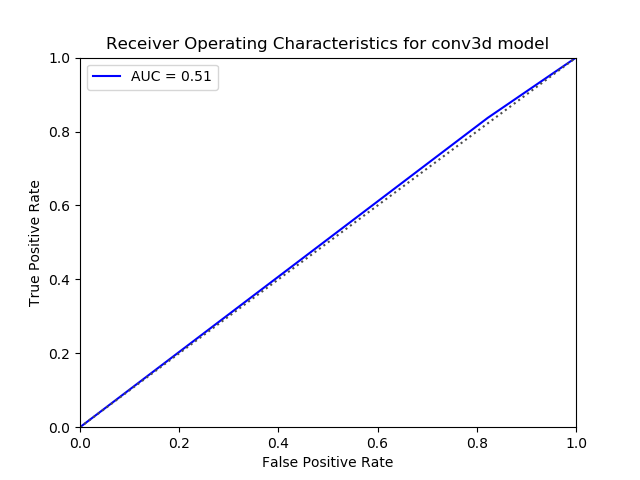
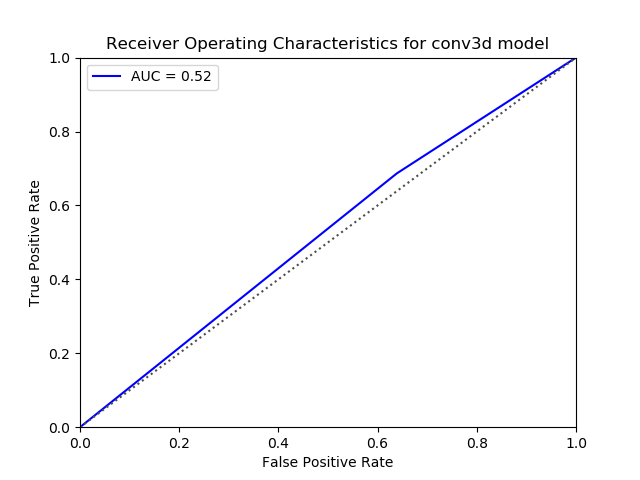
reasonable results groupconv

diff --git a/Jochem/3DGroupConv_adapted/dltk/networks/regression_classification/group_convnet.py b/Jochem/3DGroupConv_adapted/dltk/networks/regression_classification/group_convnet.py
@@ -11,7 +11,7 @@ from dltk.groupy.gconv.tensorflow_gconv.splitgconv3d import gconv3d_unit, group_
 def groupnet_3d(inputs,
               num_classes,
               batch_size,
-              filters=(8, 8, 16, 16),
+              filters=(3, 6, 6, 6),
               mode=tf.estimator.ModeKeys.EVAL,
               use_bias=False,
               activation=tf.nn.relu6,
@@ -63,18 +63,21 @@ def groupnet_3d(inputs,
                    'bias_regularizer': bias_regularizer}
     # print("INPUTS", inputs)
     x = inputs
-    x = tf.layers.max_pooling3d(x,2,strides=1)
+    # x = tf.layers.max_pooling3d(x,2,strides=1)
 
     for i in range(len(filters)):
 
-        x = gconv3d_unit(x, filters[i])
-        if mode == tf.estimator.ModeKeys.TRAIN:
-            x = group_norm(x, batch_size=batch_size, G=24)
+        x = gconv3d_unit(x, filters[i], ksize=3)
+        # if mode == tf.estimator.ModeKeys.TRAIN:
+        #     x = group_norm(x, batch_size=batch_size, G=24)
+
+        x = tf.layers.batch_normalization(x, training=mode == tf.estimator.ModeKeys.TRAIN)
         x = activation(x)
-        if i == 0 or i == 1 or i == 3:
-            x = tf.layers.max_pooling3d(x,2,strides=1)
-        # x = tf.layers.batch_normalization(x, training=mode == tf.estimator.ModeKeys.TRAIN)
-        x = tf.layers.dropout(x,rate=0.5,training=mode == tf.estimator.ModeKeys.TRAIN)
+
+        if i in [1]:
+            x = tf.layers.max_pooling3d(x,2,strides=2)
+        if i in [0, 2]:
+            x = tf.layers.dropout(x,rate=0.5,training=mode == tf.estimator.ModeKeys.TRAIN)
         print('output shape after layer {} : {}'.format(i+1,x.get_shape()))
 
     x = tf.layers.Flatten()(x)
@@ -88,7 +91,7 @@ def groupnet_3d(inputs,
                         kernel_regularizer=conv_params['kernel_regularizer'],
                         bias_regularizer=conv_params['bias_regularizer'],
                         name='hidden_units_0')
-
+    print("output shape after FC 1: {}".format(x.get_shape()))
     x = tf.layers.dense(inputs=x,
                         units=num_classes,
                         activation=None,
@@ -98,6 +101,26 @@ def groupnet_3d(inputs,
                         kernel_regularizer=conv_params['kernel_regularizer'],
                         bias_regularizer=conv_params['bias_regularizer'],
                         name='hidden_units')
+
+    # x = inputs
+    # # x = tf.layers.max_pooling3d(x,2,strides=2)
+
+    # for i in range(len(filters)):
+    #     if i == 0:
+    #         ksize = 5
+    #     else:
+    #         ksize = 3
+    #     # ksize = 3
+    #     x = gconv3d_unit(x, filters[i], ksize)
+    #     # if mode == tf.estimator.ModeKeys.TRAIN:
+    #     #     x = group_norm(x, batch_size=batch_size, G=24)
+    #     x = activation(x)
+    #     if i in [0, 1, 2, 3]:
+    #         x = tf.layers.max_pooling3d(x,2,strides=2)
+    #     x = tf.layers.batch_normalization(x, training=mode == tf.estimator.ModeKeys.TRAIN)
+    #     # if i in [1, 3]:
+    #     #     x = tf.layers.dropout(x,rate=0.5,training=mode == tf.estimator.ModeKeys.TRAIN)
+    #     print('output shape after layer {} : {}'.format(i+1,x.get_shape()))
 
     # Define the outputs
     outputs['logits'] = x
@@ -116,7 +139,7 @@ def groupnet_3d(inputs,
 
 def convnet_3d(inputs,
               num_classes,
-              filters=(32, 32, 64, 64),
+              filters=(16, 32, 32, 64),
               mode=tf.estimator.ModeKeys.EVAL,
               use_bias=False,
               activation=tf.nn.relu6,
@@ -142,24 +165,24 @@ def convnet_3d(inputs,
         if i == 0:
             kernel_size=(5,5,5)
         elif i == 1:
-            kernel_size=(3,5,3)
+            kernel_size=(3,3,3)
         elif i == 2:
             kernel_size=(3,3,3)
         elif i == 3:
             kernel_size=(3,3,3)
 
-        layer = tf.layers.Conv3D(filters=filters[i],kernel_size=kernel_size)
+        layer = tf.layers.Conv3D(filters=filters[i],kernel_size=kernel_size, strides=(2,2,2), padding='same')
         x = layer(x)
         x = tf.layers.batch_normalization(x,training=mode == tf.estimator.ModeKeys.TRAIN)
         x = activation(x)
-        if i == 0 or i = 2:
+        if i == 1:
             x = tf.layers.max_pooling3d(x,2,strides=2)
-        x = tf.layers.dropout(x,rate=0.5,training=mode == tf.estimator.ModeKeys.TRAIN)
+        # x = tf.layers.dropout(x,rate=0.5,training=mode == tf.estimator.ModeKeys.TRAIN)
 
-        # print('output shape after layer {} : {}'.format(i+1,x.get_shape()))
+        print('output shape after layer {} : {}'.format(i+1,x.get_shape()))
 
     x = tf.layers.Flatten()(x)
-    # print("output shape after flattening: {}".format(x.get_shape()))
+    print("output shape after flattening: {}".format(x.get_shape()))
     x = tf.layers.dense(inputs=x,
                         units=512,
                         activation=None,
@@ -169,7 +192,8 @@ def convnet_3d(inputs,
                         kernel_regularizer=conv_params['kernel_regularizer'],
                         bias_regularizer=conv_params['bias_regularizer'],
                         name='hidden_units_0')
-    x = tf.layers.dropout(x,rate=0.5,training=mode == tf.estimator.ModeKeys.TRAIN)
+    # x = tf.layers.dropout(x,rate=0.5,training=mode == tf.estimator.ModeKeys.TRAIN)
+    print("output shape after FC 1: {}".format(x.get_shape()))
     x = tf.layers.dense(inputs=x,
                         units=num_classes,
                         activation=None,
@@ -179,7 +203,7 @@ def convnet_3d(inputs,
                         kernel_regularizer=conv_params['kernel_regularizer'],
                         bias_regularizer=conv_params['bias_regularizer'],
                         name='hidden_units')
-    x = tf.layers.dropout(x,rate=0.5,training=mode == tf.estimator.ModeKeys.TRAIN)
+    # x = tf.layers.dropout(x,rate=0.5,training=mode == tf.estimator.ModeKeys.TRAIN)
 
     # Define the outputs
     outputs['logits'] = x

diff --git a/Jochem/3DGroupConv_adapted/dltk/groupy/gconv/tensorflow_gconv/splitgconv3d.py b/Jochem/3DGroupConv_adapted/dltk/groupy/gconv/tensorflow_gconv/splitgconv3d.py
@@ -15,7 +15,7 @@ from tensorflow.python.ops import nn
 from tensorflow.python.ops import variable_scope
 
 def gconv3d(input, filter, strides, padding, gconv_indices, gconv_shape_info,
-            use_cudnn_on_gpu=None, data_format='NHWC', name=None):
+            use_cudnn_on_gpu=True, data_format='NHWC', name=None):
     """
     Implements the g-convolution. Similar interface as the standard 3D convolution in tensorflow, with gconv_indices
     and gconv_shape_info as additional parameters. These can be obtained using gconv3d_util.
@@ -38,7 +38,7 @@ def gconv3d(input, filter, strides, padding, gconv_indices, gconv_shape_info,
 
     # Transform the filters
     transformed_filter = transform_filter_3d_nhwc(w=filter, flat_indices=gconv_indices, shape_info=gconv_shape_info)
-
+    # print(transformed_filter)
     # Convolve input with transformed filters
     conv = tf.nn.conv3d(input=input, filter=transformed_filter, strides=strides, padding=padding, name=name)
 
@@ -120,16 +120,16 @@ def gconv2d_addbias(input, bias, nti=8):
     pass  # TODO
 
 
-def gconv3d_unit(x,out_channels):
+def gconv3d_unit(x, out_channels, ksize):
     in_channels = x.get_shape().as_list()[-1]
     gconv_indices, gconv_shape_info, w_shape = gconv3d_util(
-        h_input='Z3', h_output='O', in_channels=in_channels, out_channels=out_channels, ksize=3)
+        h_input='Z3', h_output='O', in_channels=in_channels, out_channels=out_channels, ksize=ksize)
     w = tf.Variable(tf.truncated_normal(w_shape, stddev=1.))
     y = gconv3d(input=x, filter=w, strides=[1, 1, 1, 1, 1], padding='SAME',
                 gconv_indices=gconv_indices, gconv_shape_info=gconv_shape_info)
 
     gconv_indices, gconv_shape_info, w_shape = gconv3d_util(
-        h_input='O', h_output='O', in_channels=out_channels, out_channels=out_channels, ksize=3)
+        h_input='O', h_output='O', in_channels=out_channels, out_channels=out_channels, ksize=ksize)
     w = tf.Variable(tf.truncated_normal(w_shape, stddev=1.))
     y = gconv3d(input=y, filter=w, strides=[1, 2, 2, 2, 1], padding='SAME',
                 gconv_indices=gconv_indices, gconv_shape_info=gconv_shape_info)

diff --git a/Jochem/3DGroupConv_adapted/code/deploy.py b/Jochem/3DGroupConv_adapted/code/deploy.py
@@ -39,6 +39,7 @@ def predict_after_train(args, export_dir):
     accuracy = []
     labels = np.empty([], dtype=int)
     predictions = np.empty([], dtype=int)
+    probabilities = np.empty([], dtype=float)
 
     for img, lbl in zip(images, labels_):
         t0 = time.time()
@@ -54,6 +55,7 @@ def predict_after_train(args, export_dir):
         predicted_class = np.argmax(y_)
         labels = np.append(labels, lbl)
         predictions = np.append(predictions, predicted_class)
+        probabilities = np.append(probabilities, y_[1])
 
         # Calculate the accuracy for this subject
         accuracy.append(predicted_class == lbl)
@@ -63,9 +65,10 @@ def predict_after_train(args, export_dir):
         #         ''.format(y_, predicted_class, lbl, time.time() - t0))
     labels = labels[1:]
     predictions = predictions[1:]
+    probabilities = probabilities[1:]
     print("Percentage of label 1: {:.4f} (baseline of random classification)".format((np.sum(labels) / len(labels))))
     print("Percentage classified as label 1: {}/{}".format(np.sum(predictions), len(labels)))
-    fpr, tpr, threshold = sklearn.metrics.roc_curve(np.array(labels), np.array(predictions))
+    fpr, tpr, threshold = sklearn.metrics.roc_curve(labels, probabilities)
     cm1 = confusion_matrix(labels , predictions)
     print('accuracy={}'.format(np.mean(accuracy)))
     print('sens:', cm1[0,0]/(cm1[0,0]+cm1[0,1]))

diff --git a/Jochem/3DGroupConv_adapted/code/train.py b/Jochem/3DGroupConv_adapted/code/train.py
@@ -23,7 +23,7 @@ from config import print_config
 from plot import *
 from deploy import predict_after_train
 
-BATCH_SIZE = 8
+BATCH_SIZE = 32
 NUM_CLASSES = 2
 NUM_CHANNELS = 1
 SHUFFLE_CACHE_SIZE = 32
@@ -298,6 +298,14 @@ def train(args):
         pass
 
     print("Done with training. lowest loss: {:.4f}, highest acc.: {:.4f}".format(best_val_loss, best_val_acc))
+    # slice_count = 0
+    # for val_loss in val_loss_list:
+    #     if val_loss > 1:
+    #         slice_count += 1
+    #     else:
+    #         break
+    # train_acc_list = train_acc_list[slice_count:]
+    # nepochs -= slice_count - 2
 
     # Plot accuracy and loss
     print("Creating plots...")
